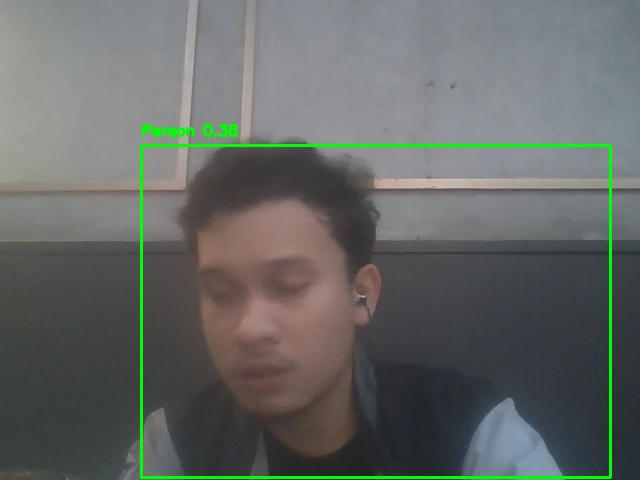
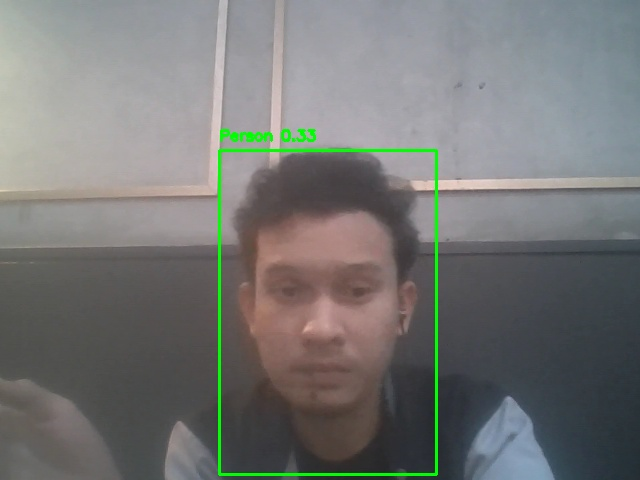
feat: fix the headless display

diff --git a/onnxEnvironment.py b/onnxEnvironment.py
@@ -1,53 +1,58 @@
-import torch
-import cv2
 import os
-import warnings
+import cv2
+import time
+import json
 import threading
+import warnings
 import tkinter as tk
 from tkinter import ttk
 from PIL import Image
-import time
+import numpy as np
 import requests
-import json
-from torchvision import transforms
+import onnxruntime as ort
 
 # === Telegram Settings ===
 TELEGRAM_BOT_TOKEN = '7585743264:AAGpvIaRIlJpEOLIfehCxew7F2ievdSgvZc'
 TELEGRAM_API_URL = f'https://api.telegram.org/bot{TELEGRAM_BOT_TOKEN}'
+telegram_chat_id = '1387459458'
+
 ALERT_INTERVAL = 20 * 60  # 20 minutes
 REMINDER_INTERVAL = 10    # seconds
 
-telegram_chat_id = '1387459458'
 last_alert_time = 0
 alert_acknowledged = False
 notification_feature_on = True
-
-# === Load YOLOv5 model ===
-model = torch.hub.load('ultralytics/yolov5', 'yolov5n', pretrained=True)
-model.cpu()
-
-os.environ['KMP_DUPLICATE_LIB_OK'] = 'True'
-os.environ['TF_CPP_MIN_LOG_LEVEL'] = '3'
-warnings.filterwarnings("ignore")
-
-# === Detection toggle ===
 detection_on = False
 
-def save_chat_id():
-    global telegram_chat_id
-    telegram_chat_id = chat_id_entry.get().strip()
-    print(f"✅ Telegram Chat ID set to: {telegram_chat_id}")
+# === ONNX Runtime Setup ===
+session = ort.InferenceSession('yolov5n.onnx', providers=['CPUExecutionProvider'])
+input_name = session.get_inputs()[0].name
 
-def toggle_detection():
-    global detection_on, last_alert_time, alert_acknowledged
-    detection_on = not detection_on
-    last_alert_time = 0  # Reset on toggle
-    alert_acknowledged = False
-    toggle_btn.config(text="Turn OFF Detection" if detection_on else "Turn ON Detection")
+# === Preprocessing ===
+def letterbox(img, new_shape=(640, 640), color=(114, 114, 114)):
+    shape = img.shape[:2]  # current shape [height, width]
+    r = min(new_shape[0] / shape[0], new_shape[1] / shape[1])
+    new_unpad = (int(round(shape[1] * r)), int(round(shape[0] * r)))
+    dw = new_shape[1] - new_unpad[0]
+    dh = new_shape[0] - new_unpad[1]
+    dw /= 2
+    dh /= 2
+    img = cv2.resize(img, new_unpad, interpolation=cv2.INTER_LINEAR)
+    top, bottom = int(round(dh - 0.1)), int(round(dh + 0.1))
+    left, right = int(round(dw - 0.1)), int(round(dw + 0.1))
+    img = cv2.copyMakeBorder(img, top, bottom, left, right, cv2.BORDER_CONSTANT, value=color)
+    return img, r, (dw, dh)
 
+def preprocess(img):
+    img, _, _ = letterbox(img, new_shape=(640, 640))
+    img = img.transpose((2, 0, 1))  # HWC to CHW
+    img = np.ascontiguousarray(img).astype(np.float32)
+    img /= 255.0
+    return img[None]
+
+# === Telegram Alert ===
 def send_telegram_alert(image_path):
     global last_alert_time, alert_acknowledged
-
     caption = "<b>🚨 Human Detected</b>\nClick below to acknowledge."
     with open(image_path, 'rb') as photo:
         data = {
@@ -64,6 +69,7 @@ def send_telegram_alert(image_path):
         response = requests.post(f'{TELEGRAM_API_URL}/sendPhoto', data=data, files=files)
         print(f'Telegram response: {response.status_code}')
 
+# === Telegram Polling ===
 def poll_telegram_updates():
     global alert_acknowledged, last_alert_time, detection_on
     offset = None
@@ -77,63 +83,67 @@ def poll_telegram_updates():
                 if 'callback_query' in update:
                     data = update['callback_query']['data']
                     if data == "ack_alert":
-                        print("✅ Alert acknowledged.")
+                        print("✅ Alert acknowledged. Turning off detection.")
                         alert_acknowledged = True
-                        detection_on = False
                         last_alert_time = time.time()
+                        detection_on = False
                         toggle_btn.config(text="Turn ON Detection")
-
-                # Handle plain message
                 elif 'message' in update:
                     message = update['message']
                     chat_id = str(message['chat']['id'])
                     if chat_id != telegram_chat_id:
-                        continue  # Ignore if from unknown user
-
+                        continue
                     text = message.get('text', '').strip().upper()
                     if text == "TURN_ON":
                         detection_on = True
                         last_alert_time = 0
                         alert_acknowledged = False
-                        print("🔔 Detection turned ON via Telegram")
+                        toggle_btn.config(text="Turn OFF Detection")
                         requests.post(f"{TELEGRAM_API_URL}/sendMessage", data={
                             'chat_id': telegram_chat_id,
                             'text': "✅ Detection is now ON."
                         })
-                        toggle_btn.config(text="Turn OFF Detection" if detection_on else "Turn ON Detection")
                     elif text == "TURN_OFF":
                         detection_on = False
-                        print("🛑 Detection turned OFF via Telegram")
+                        toggle_btn.config(text="Turn ON Detection")
                         requests.post(f"{TELEGRAM_API_URL}/sendMessage", data={
                             'chat_id': telegram_chat_id,
                             'text': "❌ Detection is now OFF."
                         })
-                        toggle_btn.config(text="Turn OFF Detection" if detection_on else "Turn ON Detection")
         except Exception as e:
             print("Polling error:", e)
         time.sleep(1)
 
+# === Toggle Button ===
+def toggle_detection():
+    global detection_on, last_alert_time, alert_acknowledged
+    detection_on = not detection_on
+    last_alert_time = 0
+    alert_acknowledged = False
+    toggle_btn.config(text="Turn OFF Detection" if detection_on else "Turn ON Detection")
+
+# === Camera Thread ===
 def run_camera():
     global last_alert_time, alert_acknowledged, detection_on
-    cap = cv2.VideoCapture(0, cv2.CAP_DSHOW)
-
-    prev_time = 0  # Initialize for FPS calculation
+    cap = cv2.VideoCapture(0)
 
     while True:
-        start_time = time.time()  # Frame start
+        start_time = time.time()
         ret, frame = cap.read()
         if not ret:
             break
 
         if detection_on:
-            results = model(frame)
-            for *box, conf, cls in results.xyxy[0]:
-                if int(cls) == 0:
-                    x1, y1, x2, y2 = map(int, box)
+            input_tensor = preprocess(frame)
+            outputs = session.run(None, {input_name: input_tensor})
+            preds = outputs[0][0]
+            for pred in preds:
+                if pred[4] < 0.25:
+                    continue
+                cls = np.argmax(pred[5:])
+                if cls == 0:  # person
+                    x1, y1, x2, y2 = map(int, pred[:4])
                     cv2.rectangle(frame, (x1, y1), (x2, y2), (0, 255, 0), 2)
-                    cv2.putText(frame, f'Person {conf:.2f}', (x1, y1 - 10),
-                                cv2.FONT_HERSHEY_SIMPLEX, 0.5, (0, 255, 0), 2)
-
                     current_time = time.time()
                     if notification_feature_on and not alert_acknowledged and (current_time - last_alert_time > REMINDER_INTERVAL):
                         img_path = 'human_detected.jpg'
@@ -141,20 +151,18 @@ def run_camera():
                         send_telegram_alert(img_path)
                         last_alert_time = current_time
                         break
-                    elif notification_feature_on and alert_acknowledged and (current_time - last_alert_time > ALERT_INTERVAL):
+                    elif alert_acknowledged and (current_time - last_alert_time > ALERT_INTERVAL):
                         print("⏰ Reminder time passed, turning detection back ON.")
                         alert_acknowledged = False
                         detection_on = True
                         toggle_btn.config(text="Turn OFF Detection")
                     break
 
-        # === FPS Calculation ===
         end_time = time.time()
-        fps = 1 / (end_time - start_time + 1e-5)  # Add epsilon to avoid div by zero
+        fps = 1 / (end_time - start_time + 1e-5)
         cv2.putText(frame, f'FPS: {fps:.2f}', (10, 30),
                     cv2.FONT_HERSHEY_SIMPLEX, 0.8, (255, 255, 0), 2)
-
-        cv2.imshow('YOLOv5 - Deteksi Manusia', frame)
+        cv2.imshow('YOLOv5 ONNX - Human Detection', frame)
         if cv2.waitKey(1) & 0xFF == ord('q'):
             break
 
@@ -162,29 +170,15 @@ def run_camera():
     cv2.destroyAllWindows()
     root.quit()
 
-def is_headless():
-    return os.environ.get('DISPLAY', '') == ''
+# === GUI Setup ===
+root = tk.Tk()
+root.title("YOLOv5 ONNX Human Detection")
 
-if is_headless():
-    print("🧠 Running in headless mode. Skipping GUI...")
-    threading.Thread(target=run_camera, daemon=True).start()
-    threading.Thread(target=poll_telegram_updates, daemon=True).start()
+toggle_btn = ttk.Button(root, text="Turn ON Detection", command=toggle_detection)
+toggle_btn.pack(padx=20, pady=20)
 
-    # Keep the main thread alive so the background threads don't exit immediately
-    try:
-        while True:
-            time.sleep(1)
-    except KeyboardInterrupt:
-        print("🛑 Stopped by user")
-else:
-    print("🖥 Display found. Launching GUI...")
-    root = tk.Tk()
-    root.title("YOLOv5 Human Detection Control")
+# === Threads ===
+threading.Thread(target=run_camera, daemon=True).start()
+threading.Thread(target=poll_telegram_updates, daemon=True).start()
 
-    toggle_btn = ttk.Button(root, text="Turn ON Detection", command=toggle_detection)
-    toggle_btn.pack(padx=20, pady=20)
-
-    threading.Thread(target=run_camera, daemon=True).start()
-    threading.Thread(target=poll_telegram_updates, daemon=True).start()
-
-    root.mainloop()
+root.mainloop()
